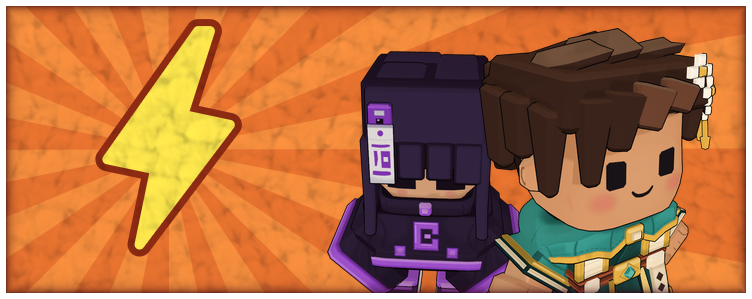
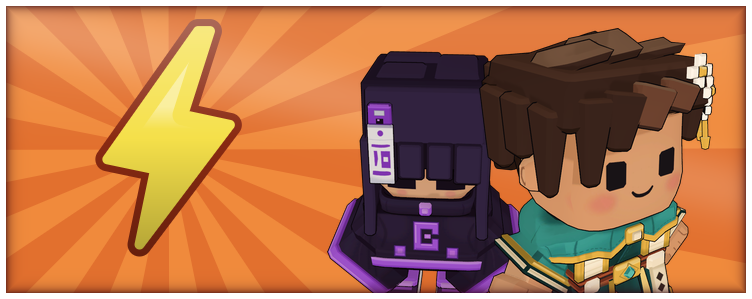
Make HOME mode pictures glossy and keep board labels fitted
- The three GAMEMODE pictures drop the knit: smooth glossy colour, a shine across the
  trophy, bolt, star and flags, and a soft sheen over the rays (owner, 2026-10-21).
- Board labels refit whenever their size, the canvas scale or Larger Text changes, with a
  small margin for pixel rounding, so the fonts hold at every screen size. Words that still
  do not fit at 55 per cent of the board size are cut short with an ellipsis.
- The balance always shows in the board's 000,000 format, dimmed until the wallet answers,
  instead of an empty dash.

Tests: BoardLabelsFitAtEveryScreenSize checks every HOME label at seven screen shapes
(720p to 4K, ultrawide, 4:3, 800x600, a short wide window). HOME suites: 6 of 6 pass.

diff --git a/ArtSource/handmade-lobby/tools/build_mode_art.py b/ArtSource/handmade-lobby/tools/build_mode_art.py
@@ -7,8 +7,7 @@ CLASSIC  the street game itself: the owner's own painted lata and tsinelas on a
 
 ⚠ THE PEOPLE ARE THE GAME'S MODEL RENDERS (Resources/UI/portraits), never drawn
 (docs/HOME_SCREEN_ANIMATION_METHOD.md 2). Only the backdrops are painted, as exact
-shapes printed with the same knit as every HOME sticker, so the window reads as
-part of the hand-made card rather than a screenshot pasted into it. Portraits are
+shapes in smooth glossy colour (owner, 2026-10-21: no knit texture here, shiny and glossy). Portraits are
 320 px and are only ever scaled DOWN here.
 
 Usage: python -I tools/build_mode_art.py   (after build_lobby_art.py)
@@ -50,10 +49,37 @@ def rays(lay, cx, cy, n, a, b, twist=0.0):
     return a * t + b * (1 - t)
 
 
-def fill(lay, sdf, colour, key, amp=None):
-    col = np.broadcast_to(colour, (lay.h, lay.w, 3)) if colour.ndim == 1 else colour
-    amp = B.knit_for(colour if colour.ndim == 1 else colour.reshape(-1, 3).mean(0)) if amp is None else amp
-    lay.over(B.cover(sdf), col * B.weave(lay.h, lay.w, key, amp))
+def fill(lay, sdf, colour, key=None, amp=None, shine=True):
+    """⚠ GLOSSY, NOT KNIT (owner, 2026-10-21: no texture on the mode pictures, "make it shiny and
+    glossy"). A flat colour runs light at the top of its shape to deep at the bottom, and a soft
+    white shine sits across the shape's upper part, inset from its edge. key and amp are unused."""
+    cov = B.cover(sdf)
+    if colour.ndim > 1:
+        lay.over(cov, colour); return
+    rows = np.nonzero((cov > 0.5).any(1))[0]
+    if len(rows) == 0: return
+    y0, y1 = float(rows[0]), float(rows[-1] + 1)
+    t = np.clip((lay.yy - y0) / max(y1 - y0, 1), 0, 1)[..., None]
+    top, deep = colour + (1 - colour) * 0.30, colour * 0.74
+    # light in the top half, deep in the bottom half, the shape's own colour across the middle
+    lay.over(cov, colour + (top - colour) * np.clip(1 - 2 * t, 0, 1) + (deep - colour) * np.clip(2 * t - 1, 0, 1))
+    hgt = y1 - y0
+    if shine and hgt > 14:
+        inset = max(2.5, hgt * 0.07)
+        inner = B.cover(sdf + inset)
+        band = np.clip((y0 + hgt * 0.46 - lay.yy) / (hgt * 0.10), 0, 1)
+        k = (inner * band * 0.42)[..., None]
+        lay.rgb = lay.rgb + (1 - lay.rgb) * k * lay.a[..., None]
+
+
+def sheen(lay):
+    """A glossy backdrop: brighter toward the top, a soft diagonal light across it."""
+    P = B.PAD
+    v = np.clip((lay.yy - P) / H, 0, 1)
+    d = ((lay.xx - P) / W * 0.6 - (lay.yy - P) / H)
+    streak = np.exp(-((d + 0.05) / 0.12) ** 2) * 0.16
+    k = (np.clip(0.5 - v, 0, 1) * 0.22 + streak)[..., None]
+    lay.rgb = lay.rgb + (1 - lay.rgb) * k * lay.a[..., None]
 
 
 def person(lay, name, cx, top, height, flip=False, shade=0.0):
@@ -139,7 +165,8 @@ def cast(lay, people):
 
 
 def backdrop(lay, colour_a, colour_b, cx, cy, n, key, twist=0.0):
-    fill(lay, np.full(lay.xx.shape, -10.0, np.float32), rays(lay, cx, cy, n, colour_a, colour_b, twist), key, B.KNIT * 0.9)
+    fill(lay, np.full(lay.xx.shape, -10.0, np.float32), rays(lay, cx, cy, n, colour_a, colour_b, twist))
+    sheen(lay)
 
 
 def ranked():
@@ -151,13 +178,13 @@ def ranked():
     s = H * 0.66
     top = P + H * 0.16
     t = trophy_sdf(lay, cx, top, s)
-    fill(lay, t, hexc('D9781A'), 'rk-cup-shade', B.KNIT)
+    fill(lay, t, hexc('D9781A'))
     lit = B.poly_sdf(lay.xx, lay.yy, B._shrink([(cx - s / 2, top), (cx + s * 0.1, top), (cx - s * 0.04, top + s * 0.62), (cx - s * 0.18, top + s * 0.62)], s * 0.05)) - s * 0.05
-    fill(lay, np.maximum(t, lit), hexc('F5B521'), 'rk-cup', B.KNIT)
+    fill(lay, np.maximum(t, lit), hexc('F5B521'))
     # a star on the cup
     star = [(cx + np.cos(np.radians(a)) * (s * (0.11 if i % 2 == 0 else 0.045)), top + s * 0.26 + np.sin(np.radians(a)) * (s * (0.11 if i % 2 == 0 else 0.045)))
             for i, a in enumerate(range(-90, 270, 36))]
-    fill(lay, B.poly_sdf(lay.xx, lay.yy, star), hexc('A8182C'), 'rk-star', B.KNIT)
+    fill(lay, B.poly_sdf(lay.xx, lay.yy, star), hexc('A8182C'))
     cast(lay, [('phaister', 0.50, 0.16, 0.92, False, 0.16), ('sean', 0.86, 0.20, 0.88, False, 0.16), ('zack', 0.68, 0.10, 0.98, False, 0.0)])
     return finish(lay, 'mode_art_ranked')
 
@@ -170,8 +197,8 @@ def casual():
     u = H * 0.86
     pts = [(0.62, 0.0), (0.18, 0.56), (0.47, 0.56), (0.30, 1.0), (0.82, 0.38), (0.53, 0.38), (0.72, 0.0)]
     bolt = [(cx - u * 0.45 + px * u * 0.9, P + H * 0.07 + py * u) for px, py in pts]
-    fill(lay, bolt_sdf(lay, bolt, 5) - 7, hexc('8A2A12'), 'cs-bolt-edge', B.KNIT)
-    fill(lay, bolt_sdf(lay, bolt, 5), hexc('F5E04A'), 'cs-bolt', B.KNIT)
+    fill(lay, bolt_sdf(lay, bolt, 5) - 7, hexc('8A2A12'), shine=False)
+    fill(lay, bolt_sdf(lay, bolt, 5), hexc('F5E04A'))
     cast(lay, [('nemu', 0.57, 0.16, 0.92, False, 0.12), ('amihan', 0.80, 0.08, 1.0, False, 0.0)])
     return finish(lay, 'mode_art_casual')
 
@@ -179,24 +206,25 @@ def casual():
 def classic():
     lay = canvas(); P = B.PAD
     sky = np.clip((lay.yy - P) / H, 0, 1)[..., None]
-    fill(lay, np.full(lay.xx.shape, -10.0, np.float32), hexc('F5B521') * (1 - sky) + hexc('EE8B3A') * sky, 'cl-sky', B.KNIT * 0.9)
+    fill(lay, np.full(lay.xx.shape, -10.0, np.float32), hexc('F5B521') * (1 - sky) + hexc('EE8B3A') * sky)
+    sheen(lay)
     # banderitas: ONE string sagging across, flags hanging point-down from it
     def yat(u): return P + H * (0.08 + 0.16 * 4 * u * (1 - u))
     xs = np.linspace(-0.02, 1.02, 200)
     string = np.full(lay.xx.shape, np.inf, np.float32)
     for a, b in zip(xs[:-1], xs[1:]):
         string = np.minimum(string, B.capsule_sdf(lay.xx, lay.yy, P + W * a, yat(a), P + W * b, yat(b), 1.6))
-    fill(lay, string, hexc('5E2618'), 'cl-string', 0.0)
+    fill(lay, string, hexc('5E2618'), shine=False)
     cols = ['A31A24', '469678', 'FCD39F', '56071D']
     n = 13
     for i in range(n):
         u0 = (i + 0.15) / n; u1 = (i + 0.85) / n; um = (u0 + u1) / 2
         tri = [(P + W * u0, yat(u0)), (P + W * u1, yat(u1)), (P + W * um, yat(um) + H * 0.13)]
-        fill(lay, B.poly_sdf(lay.xx, lay.yy, B._shrink(tri, 1.5)) - 1.5, hexc(cols[i % 4]), f'cl-flag{i}', B.KNIT)
-    fill(lay, B.rrect_sdf(lay.xx, lay.yy, P - 40, P + H * 0.72, W + 80, H, 0), hexc('7A4B36'), 'cl-road', B.KNIT)
+        fill(lay, B.poly_sdf(lay.xx, lay.yy, B._shrink(tri, 1.5)) - 1.5, hexc(cols[i % 4]))
+    fill(lay, B.rrect_sdf(lay.xx, lay.yy, P - 40, P + H * 0.72, W + 80, H, 0), hexc('7A4B36'), shine=False)
     cx = P + W * 0.22
     ring = np.abs(np.hypot(lay.xx - cx, (lay.yy - (P + H * 0.86)) / 0.3) - W * 0.12) - 3.0
-    fill(lay, ring, hexc('FCD39F'), 'cl-ring', B.KNIT)
+    fill(lay, ring, hexc('FCD39F'))
     item = Image.open(os.path.join(B.OUT, 'icon_item.png')).convert('RGBA')
     target = H * 0.62
     sc = min(target, item.height) / item.height

diff --git a/Assets/TumbangPreso/Runtime/UI/Hub/HubBoard.cs b/Assets/TumbangPreso/Runtime/UI/Hub/HubBoard.cs
@@ -250,23 +250,87 @@ namespace TumbangPreso.UI.Hub
         }
 
         /// <summary>Sets a label's words at its board size, shrinking (never growing) to fit its box, or
-        /// <paramref name="roomUnits"/> board units when the box is wider than the piece it sits on.</summary>
+        /// <paramref name="roomUnits"/> board units when the box is wider than the piece it sits on.
+        /// The fit is kept by <see cref="BoardFit"/>, which redoes it whenever the screen changes.</summary>
         public static void SetWords(Text text, string words, LabelSpec spec = null, float roomUnits = 0f)
         {
-            text.text = words;
-            if (spec == null) return;
+            if (spec == null) { text.text = words; return; }
+            var fit = text.GetComponent<BoardFit>();
+            if (fit == null) fit = text.gameObject.AddComponent<BoardFit>();
+            fit.Set(words, spec, roomUnits);
+        }
+    }
+
+    /// <summary>
+    /// ⚠ A BOARD LABEL STAYS INSIDE ITS PIECE AT EVERY SCREEN SIZE (owner, 2026-10-21: the fonts must
+    /// not break when the screen size changes, or on edge cases). Unity draws a Text at the canvas's
+    /// pixel size, so the same words measure differently at 1280, 1920 or a narrow window, and with
+    /// Larger Text. The fit is redone whenever the rect, the canvas scale or that setting changes,
+    /// with a 3 per cent margin for pixel rounding. Words that still do not fit at 55 per cent of the
+    /// owner's size are cut short with "..." instead of shrinking into an unreadable sliver.
+    /// </summary>
+    [RequireComponent(typeof(Text))]
+    public sealed class BoardFit : MonoBehaviour
+    {
+        private const float Margin = 0.97f, Smallest = 0.55f;
+        private Text _text;
+        private HubBoard.LabelSpec _spec;
+        private string _words;
+        private float _room, _scale = -1f;
+        private bool _larger, _fitting;
+
+        /// <summary>The width the words may take, in the label's own (2x) units.</summary>
+        public float RoomWidth => _spec == null ? float.MaxValue : (_room > 0f ? Mathf.Min(_room, _spec.w) : _spec.w) * 2f * Margin;
+        /// <summary>True when the words, as drawn at the canvas's current scale, fit their room.</summary>
+        public bool Fits => _text == null || _text.preferredWidth <= RoomWidth + 0.5f;
+
+        public void Set(string words, HubBoard.LabelSpec spec, float roomUnits)
+        {
+            _words = words ?? string.Empty; _spec = spec; _room = roomUnits;
+            Fit();
+        }
+
+        private void LateUpdate()
+        {
+            if (_spec == null) return;
+            var canvas = _text != null ? _text.canvas : null;
+            float scale = canvas != null ? canvas.scaleFactor : 1f;
             var settings = Settings.SettingsStore.Current;
-            float larger = settings != null && settings.LargerText ? 1.15f : 1f;
-            int size = Mathf.RoundToInt(spec.size * 2f * larger);
-            text.fontSize = size;
-            float room = (roomUnits > 0f ? Mathf.Min(roomUnits, spec.w) : spec.w) * 2f;
-            for (int guard = 0; guard < 60 && text.preferredWidth > room && text.fontSize > 12; guard++)
-                text.fontSize -= 2;
+            bool larger = settings != null && settings.LargerText;
+            if (!Mathf.Approximately(scale, _scale) || larger != _larger) Fit();
+        }
+
+        private void OnRectTransformDimensionsChange() { if (isActiveAndEnabled && !_fitting) Fit(); }
+
+        public void Fit()
+        {
+            if (_spec == null || _fitting) return;
+            if (_text == null) _text = GetComponent<Text>();
+            _fitting = true;
+            var canvas = _text.canvas;
+            _scale = canvas != null ? canvas.scaleFactor : 1f;
+            var settings = Settings.SettingsStore.Current;
+            _larger = settings != null && settings.LargerText;
+
+            int full = Mathf.RoundToInt(_spec.size * 2f * (_larger ? 1.15f : 1f));
+            int least = Mathf.Max(12, Mathf.RoundToInt(full * Smallest));
+            float room = RoomWidth;
+            string words = _words;
+            _text.text = words;
+            _text.fontSize = full;
+            while (_text.preferredWidth > room && _text.fontSize > least) _text.fontSize = Mathf.Max(least, _text.fontSize - 2);
+            // still too wide at the smallest readable size: cut the words, never the letters
+            while (_text.preferredWidth > room && words.Length > 1)
+            {
+                words = words.Substring(0, words.Length - 1).TrimEnd();
+                _text.text = words + "...";
+            }
             // A Canva box is shorter than Unity's line for some faces; grow the rect downward to
             // the line so nothing clips. Placement is unaffected: BoardBaseline sets the baseline.
-            var rect = text.rectTransform;
-            float need = text.preferredHeight + 2f;
+            var rect = _text.rectTransform;
+            float need = _text.preferredHeight + 2f;
             if (rect.sizeDelta.y < need) rect.sizeDelta = new Vector2(rect.sizeDelta.x, need);
+            _fitting = false;
         }
     }
 

diff --git a/Assets/TumbangPreso/Tests/PlayMode/HomeStickerFeelTests.cs b/Assets/TumbangPreso/Tests/PlayMode/HomeStickerFeelTests.cs
@@ -1,4 +1,5 @@
 using System.Collections;
+using System.Collections.Generic;
 using System.Linq;
 using NUnit.Framework;
 using TumbangPreso.UI.Hub;
@@ -55,6 +56,34 @@ namespace TumbangPreso.PlayTests
             Assert.Greater(highest, rest.y - 0.5f, "The release must spring the face back up.");
             yield return new WaitForSecondsRealtime(0.8f);
             Assert.AreEqual(rest.y, face.anchoredPosition.y, 0.75f, "PLAY settles back at rest.");
+        }
+
+        /// <summary>
+        /// Owner, 2026-10-21: the fonts must not break when the screen size changes, or on edge cases.
+        /// Every board label on HOME (the longest mode name, an overlong player name) must fit its
+        /// room at every screen shape a player might use, including a short wide window.
+        /// </summary>
+        [UnityTest] public IEnumerator BoardLabelsFitAtEveryScreenSize()
+        {
+            yield return HubFlowTests.OpenHome();
+            var hub = TumpHub.Current;
+            HubHome.Choice = 2; hub.Top.Resumed();     // HERO STRIKE, the longest mode name
+            yield return null;
+            var name = hub.Canvas.GetComponentsInChildren<Text>().Single(t => t.name == "PlayerName");
+            HubBoard.SetWords(name, "AnUnusuallyLongPlayerNameThatNeverEnds", HubBoard.Label("Tump_ID"));
+            var misses = new List<string>();
+            var sizes = new[] { (1280, 720), (1920, 1080), (3840, 2160), (2560, 1080), (1024, 768), (800, 600), (1600, 700) };
+            foreach (var (w, h) in sizes)
+                yield return TumpUiCapture.Capture("Home-labels-" + w + "x" + h, hub.Canvas, w, h, false, inspectViewport: () =>
+                {
+                    foreach (var fit in hub.Canvas.GetComponentsInChildren<BoardFit>())
+                        if (!fit.Fits)
+                            misses.Add($"{fit.name} '{fit.GetComponent<Text>().text}' at {w}x{h}: " +
+                                       $"{fit.GetComponent<Text>().preferredWidth:F0} > {fit.RoomWidth:F0}");
+                });
+            Assert.IsEmpty(misses, string.Join("; ", misses));
+            Assert.IsTrue(name.text.EndsWith("...") || name.preferredWidth <= name.GetComponent<BoardFit>().RoomWidth,
+                "An overlong player name is cut short, not squeezed past its plate.");
         }
 
         [UnityTest] public IEnumerator HoverLiftsTheHeroPicture()

diff --git a/Assets/TumbangPreso/Runtime/UI/Hub/HubChrome.cs b/Assets/TumbangPreso/Runtime/UI/Hub/HubChrome.cs
@@ -113,7 +113,12 @@ namespace TumbangPreso.UI.Hub
             if (_amount == null) return;
             var wallet = GameServices.Wallet;
             int balance = wallet != null ? wallet.Balance : -1;
-            HubBoard.SetWords(_amount, balance < 0 ? "--" : balance.ToString("N0"), _spec);
+            // ⚠ NEVER EMPTY: the owner's board writes the balance as 000,000 (six digits, zero padded).
+            // Until the wallet answers it shows those zeros dimmed, not a dash.
+            HubBoard.SetWords(_amount, System.Math.Max(0, balance).ToString("000,000", System.Globalization.CultureInfo.InvariantCulture), _spec);
+            var ink = HubBoard.Colour(_spec != null ? _spec.colour : "#55071D");
+            ink.a = balance < 0 ? 0.45f : 1f;
+            _amount.color = ink;
             if (_notice != null) _notice.SetActive(wallet != null && wallet.AnyClaimable);
         }
     }
